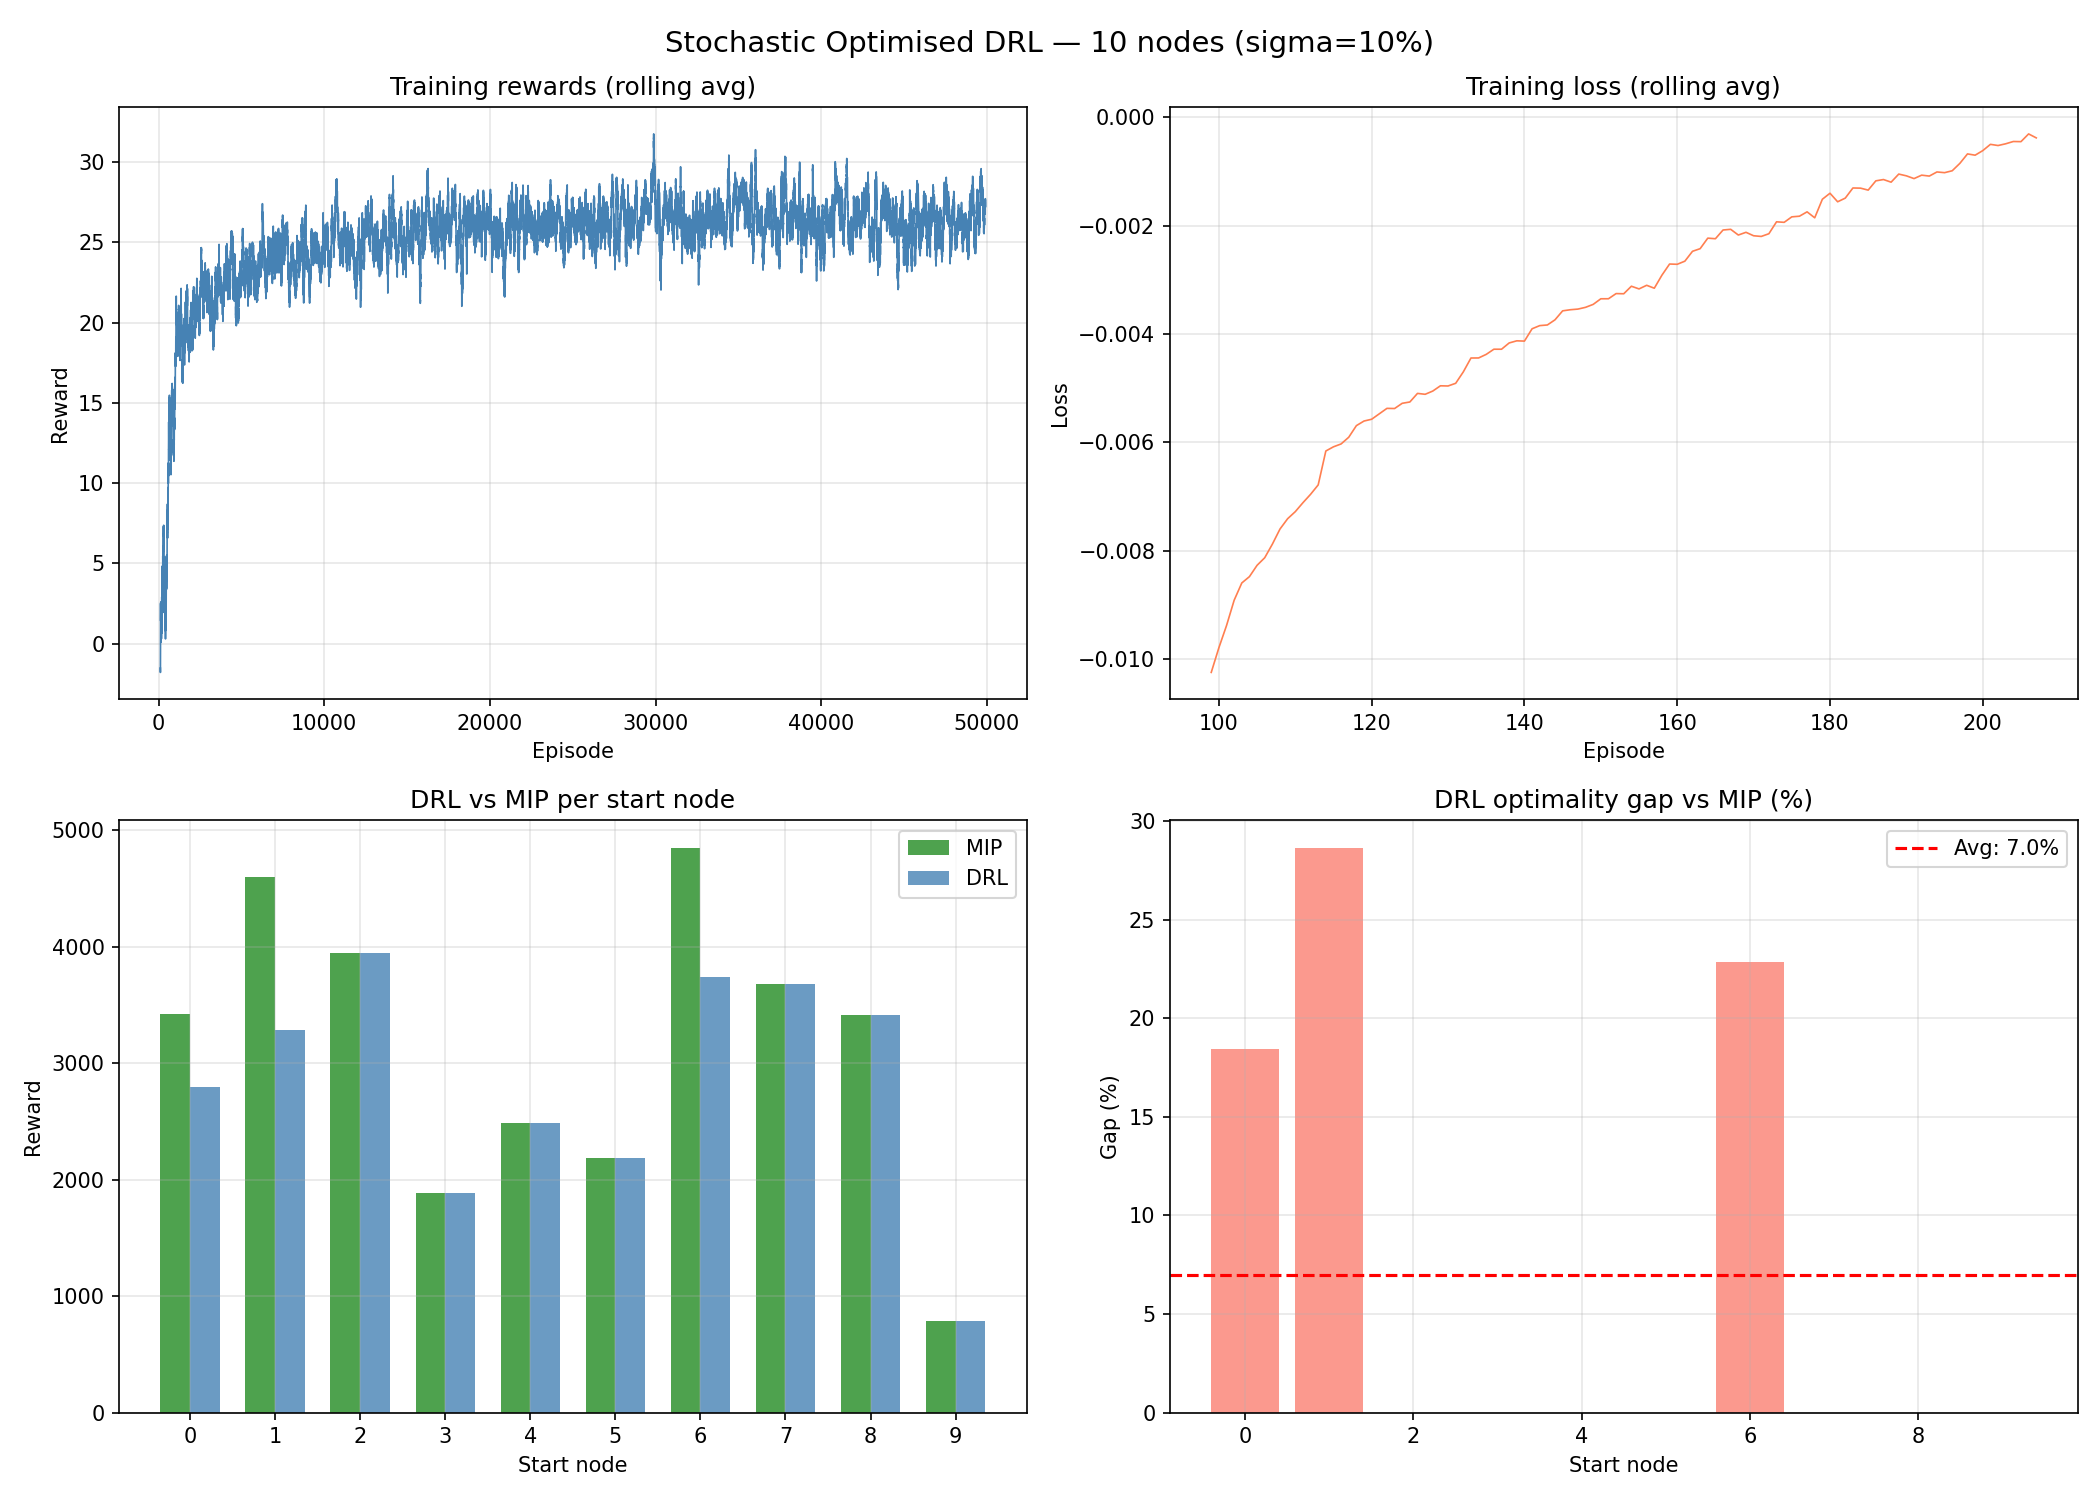
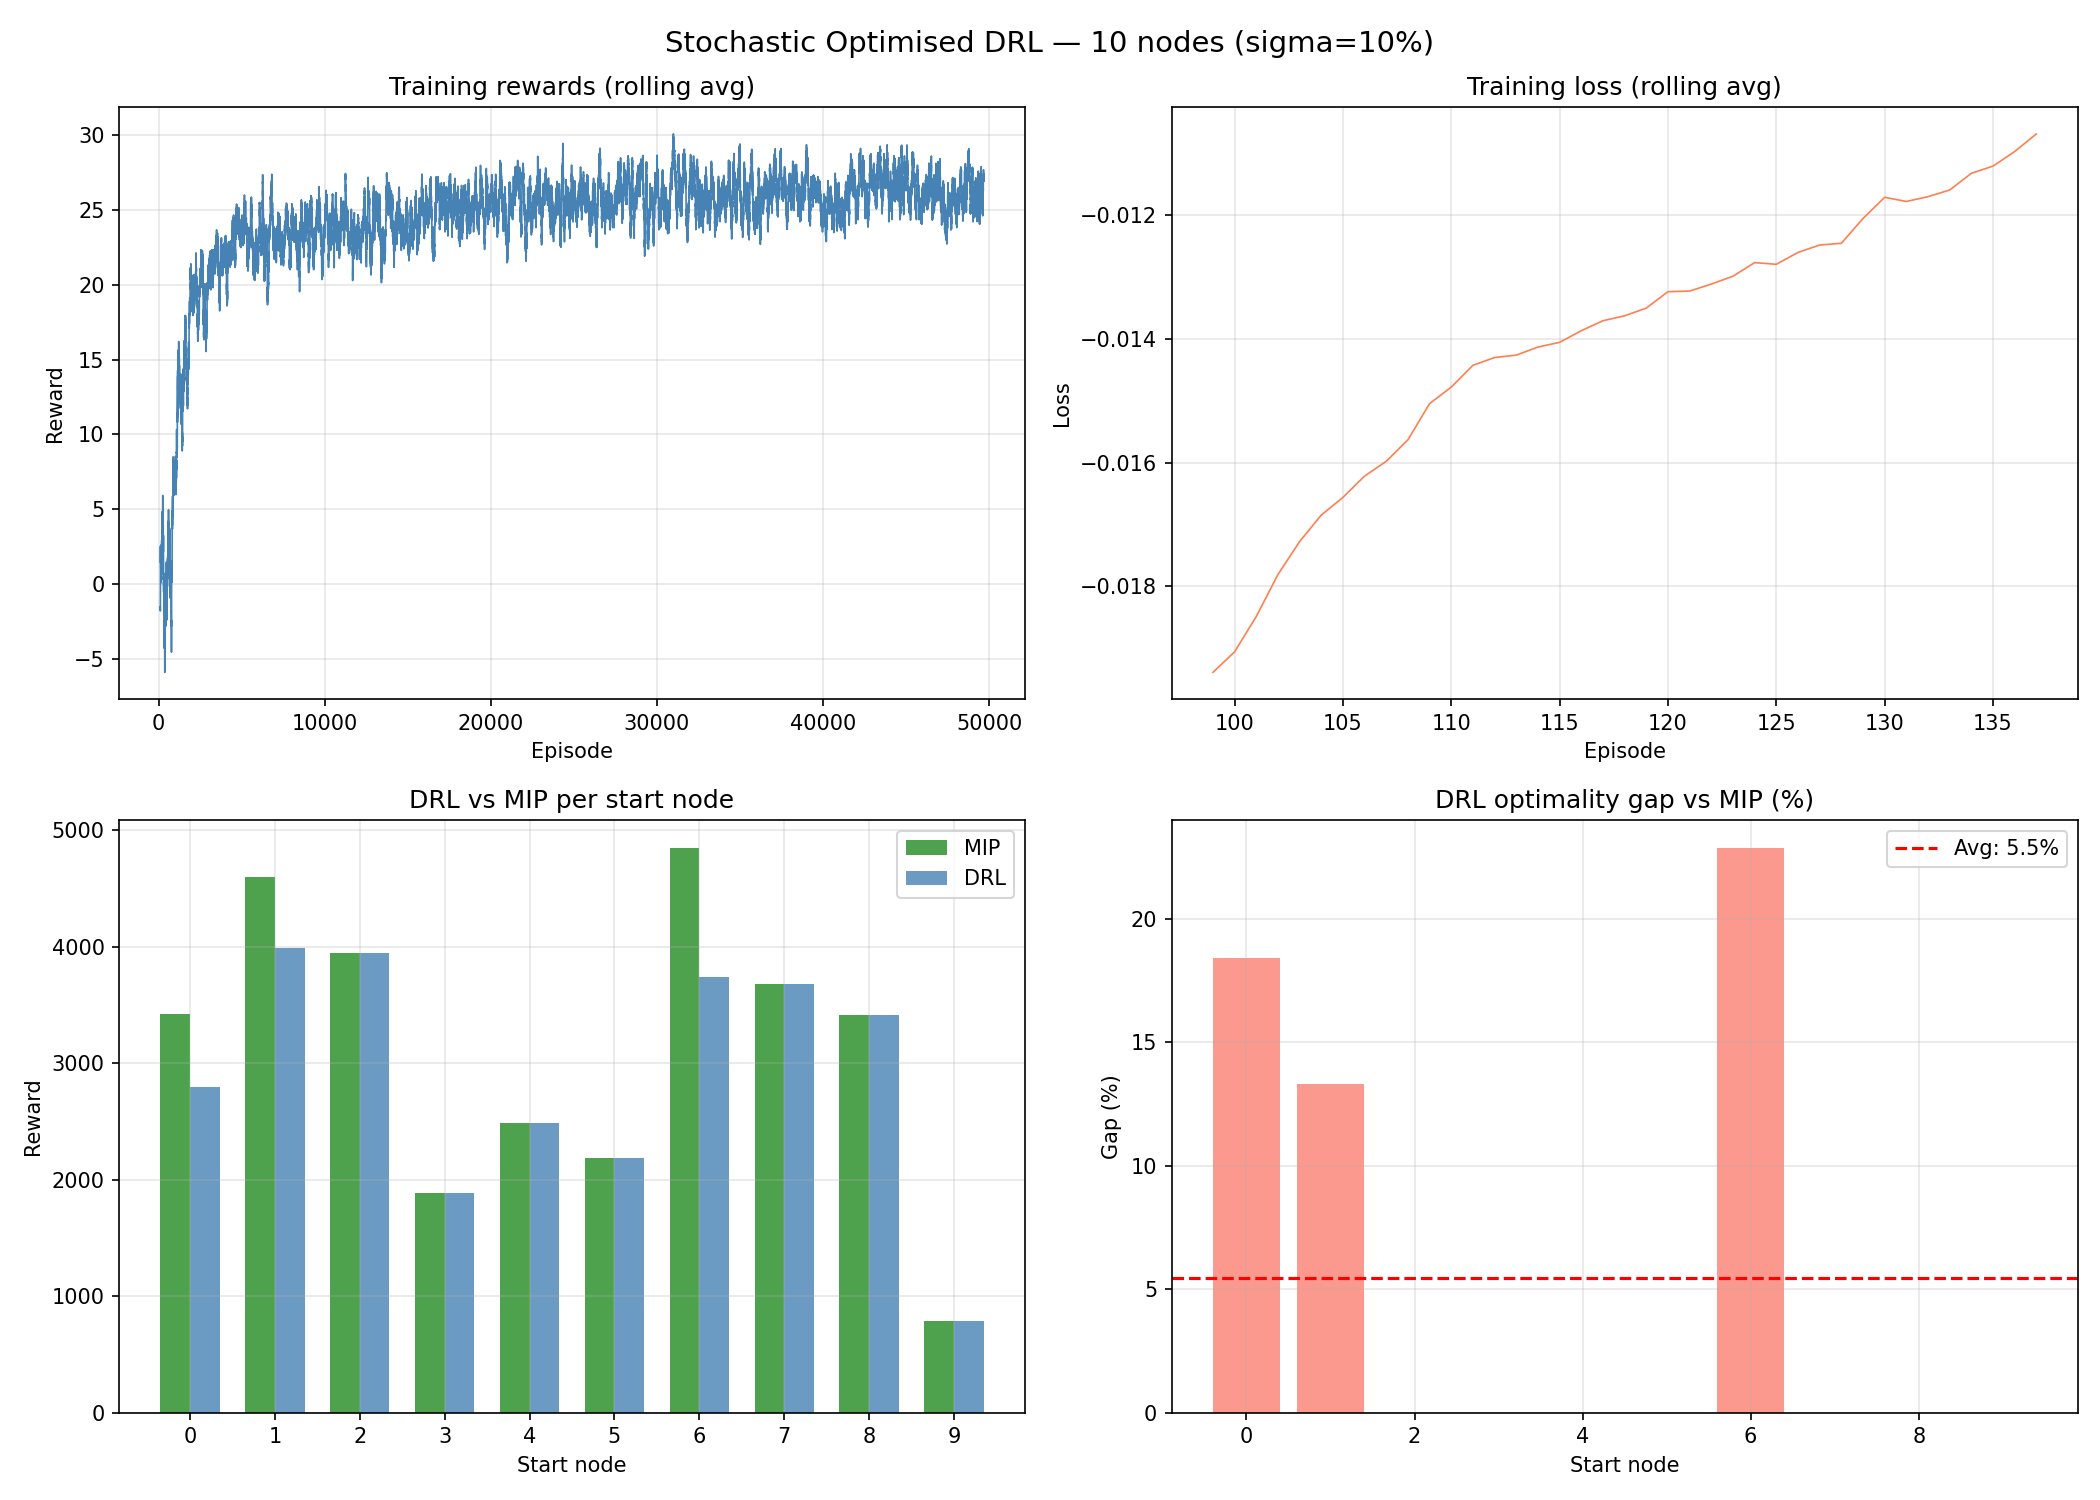
Version con 5.4% de GAP

diff --git a/am_training.py b/am_training.py
@@ -259,14 +259,14 @@ def run_am_training(
     n_heads:                int   = 8,
     n_layers:               int   = 3, 
     d_ff:                   int   = 512,
-    n_episodes_per_update:  int   = 240,
+    n_episodes_per_update:  int   = 360,
     n_ppo_epochs:           int   = 4,    
     ppo_batch_size:         int   = 64,
     lr:                     float = 1e-4, 
     gamma:                  float = 0.99,
     gae_lambda:             float = 0.95,
     clip_eps:               float = 0.15,
-    entropy_coef:           float = 0.03,
+    entropy_coef:           float = 0.05,
     grad_clip:              float = 0.5,  
 ) -> tuple:
     """
